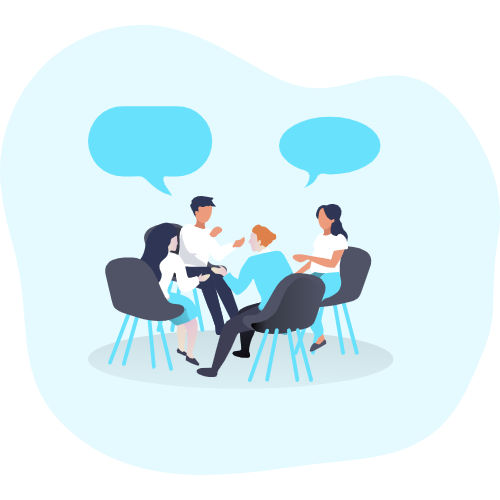
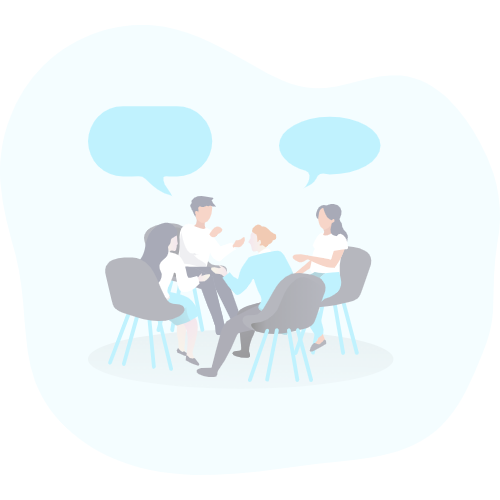
ongoing styling procedure

diff --git a/public/css/styles.min.css b/public/css/styles.min.css
@@ -21,7 +21,7 @@ body {
 h1 {
     margin-bottom: 16px;
     font-size: 50px;
-    color: #f8f8f8;
+    color: #888282;
     font-weight: 2900;
 }
 
@@ -35,7 +35,7 @@ label {
     display: block;
     font-size: 16px;
     margin-bottom: 8px;
-    color: #f8f8f8;
+    color: #7e7979;
     font-weight: bold
 }
 
@@ -55,17 +55,13 @@ button {
     transition: background .3s ease
 }
 
-button:hover {
-    background: #6b47b8
-}
-
 button:disabled {
     cursor: default;
     background: #edecf094
 }
 
 .centered-form {
-    background: url('../img/background-imgg.jpg') no-repeat center center fixed;
+    background-image: linear-gradient(-225deg, #FFFEFF 0%, #D7FFFE 100%);
     background-repeat: no-repeat;
     -webkit-background-size: cover;
     -moz-background-size: cover;
@@ -100,14 +96,14 @@ button:disabled {
 
 .chat__sidebar {
     height: 100vh;
-    color: #fff;
-    background-color: #FFDEE9;
+    color: rgb(84, 80, 80);
+    background: #f2fcfe;
     width: 225px;
     overflow-y: scroll
 }
 
 .chat__main {
-    background: url('../img/chat-bkg.png') no-repeat;
+    background: url('../img/chat-bkg2.png') no-repeat;
     background-position: center;
     flex-grow: 1;
     display: flex;
@@ -168,8 +164,9 @@ button:disabled {
 .room-title {
     font-weight: 400;
     font-size: 22px;
-    background: #2c2f3a;
-    padding: 24px
+    padding: 12px;
+    float: right;
+    margin-top: 0.4cm;
 }
 
 .list-title {
@@ -182,7 +179,7 @@ button:disabled {
 .users {
     list-style-type: none;
     font-weight: 300;
-    padding: 12px 24px 0
+    padding: 12px 24px 0;
 }
 
 #btn {
@@ -232,4 +229,33 @@ button:disabled {
     color: rgb(184, 179, 175);
     font-size: 13px;
     font-family: serif;
+}
+
+.btn-grad {
+    background-image: linear-gradient(to right, #1FA2FF 0%, #12D8FA 51%, #1FA2FF 100%);
+    border: none;
+}
+
+.btn-grad {
+    margin: 10px;
+    padding: 15px 45px;
+    text-align: center;
+    text-transform: uppercase;
+    transition: 0.5s;
+    background-size: 200% auto;
+    color: white;
+    box-shadow: 0 0 20px #eee;
+    border-radius: 10px;
+    display: block;
+}
+
+.btn-grad:hover {
+    background-position: right center;
+    /* change the direction of the change here */
+    color: #fff;
+    text-decoration: none;
+}
+
+h2 {
+    float: right;
 }

diff --git a/public/chat.html b/public/chat.html
@@ -9,7 +9,6 @@
 
 <body>
 
-    <footer><svg xmlns="http://www.w3.org/2000/svg" viewBox="0 0 1440 320"><path fill="#0099ff" fill-opacity="1" d="M0,320L48,272C96,224,192,128,288,101.3C384,75,480,117,576,138.7C672,160,768,160,864,170.7C960,181,1056,203,1152,181.3C1248,160,1344,96,1392,64L1440,32L1440,320L1392,320C1344,320,1248,320,1152,320C1056,320,960,320,864,320C768,320,672,320,576,320C480,320,384,320,288,320C192,320,96,320,48,320L0,320Z"></path></svg></footer>
     <div class="chat">
         <div id="sidebar" class="chat__sidebar">
         </div>
@@ -21,9 +20,9 @@
             <div class="compose">
                 <form id="message-form">
                     <input type="text" name="message" placeholder="Message">
-                    <button>Send</button>
+                    <button class="btn-grad">Send</button>
                 </form>
-                <button id="send-location">Send location</button>
+                <button id="send-location" class="btn-grad">Send location</button>
 
             </div>
         </div>
@@ -52,9 +51,12 @@
     </script>
 
     <script id="sidebar-template" type="text/html">
-        <h2 class="room-title">{{room}}</h2>
-        <h3 class="list-title">Users</h3>
-        <ul class="users">
+        <img src="/img/room.png" width="100" height="100">
+
+        <h2 class="centered-form-text room-title ">{{room}}</h2>
+
+        <h3 class="list-title centered-form-text">Users</h3>
+        <ul class="users centered-form-text">
             {{#users}}
             <li>{{username}}</li>
             {{/users}}

diff --git a/public/js/chat.js b/public/js/chat.js
@@ -48,18 +48,21 @@ $messageForm.addEventListener('submit', (e) => {
     $messageButton.setAttribute('disabled', 'disabled');
 
     const message = e.target.elements.message.value;
-    socket.emit('sendMessage', message, (error) => {
-        if (error) {
-            return console.log(error);
-        }
 
-        $messageInput.value = '';
-        $messageInput.focus();
+    if (message.length) {
+        socket.emit('sendMessage', message, (error) => {
+            if (error) {
+                return console.log(error);
+            }
 
-        console.log('Message sent!');
-        $messageButton.removeAttribute('disabled');
-    });
-})
+            $messageInput.value = '';
+            $messageInput.focus();
+
+            console.log('Message sent!');
+        });
+    }
+    $messageButton.removeAttribute('disabled');
+});
 
 $locationButton.addEventListener('click', (e) => {
 

diff --git a/src/index.js b/src/index.js
@@ -40,9 +40,10 @@ io.on('connection', (socket) => {
     })
 
     socket.on('sendMessage', (message, callback) => {
-        const user = getUser(socket.id);
-
-        io.to(user.room).emit('message', generateMessage({ message, username: user.username }));
+        if (message.length) {
+            const user = getUser(socket.id);
+            io.to(user.room).emit('message', generateMessage({ message, username: user.username }));
+        }
         callback();
     });
 

diff --git a/public/index.html b/public/index.html
@@ -22,7 +22,6 @@
                 <input type="text" name="room" placeholder="Room" required>
                 <button id="btn">Join</button>
             </form>
-
         </div>
     </div>
 </body>
